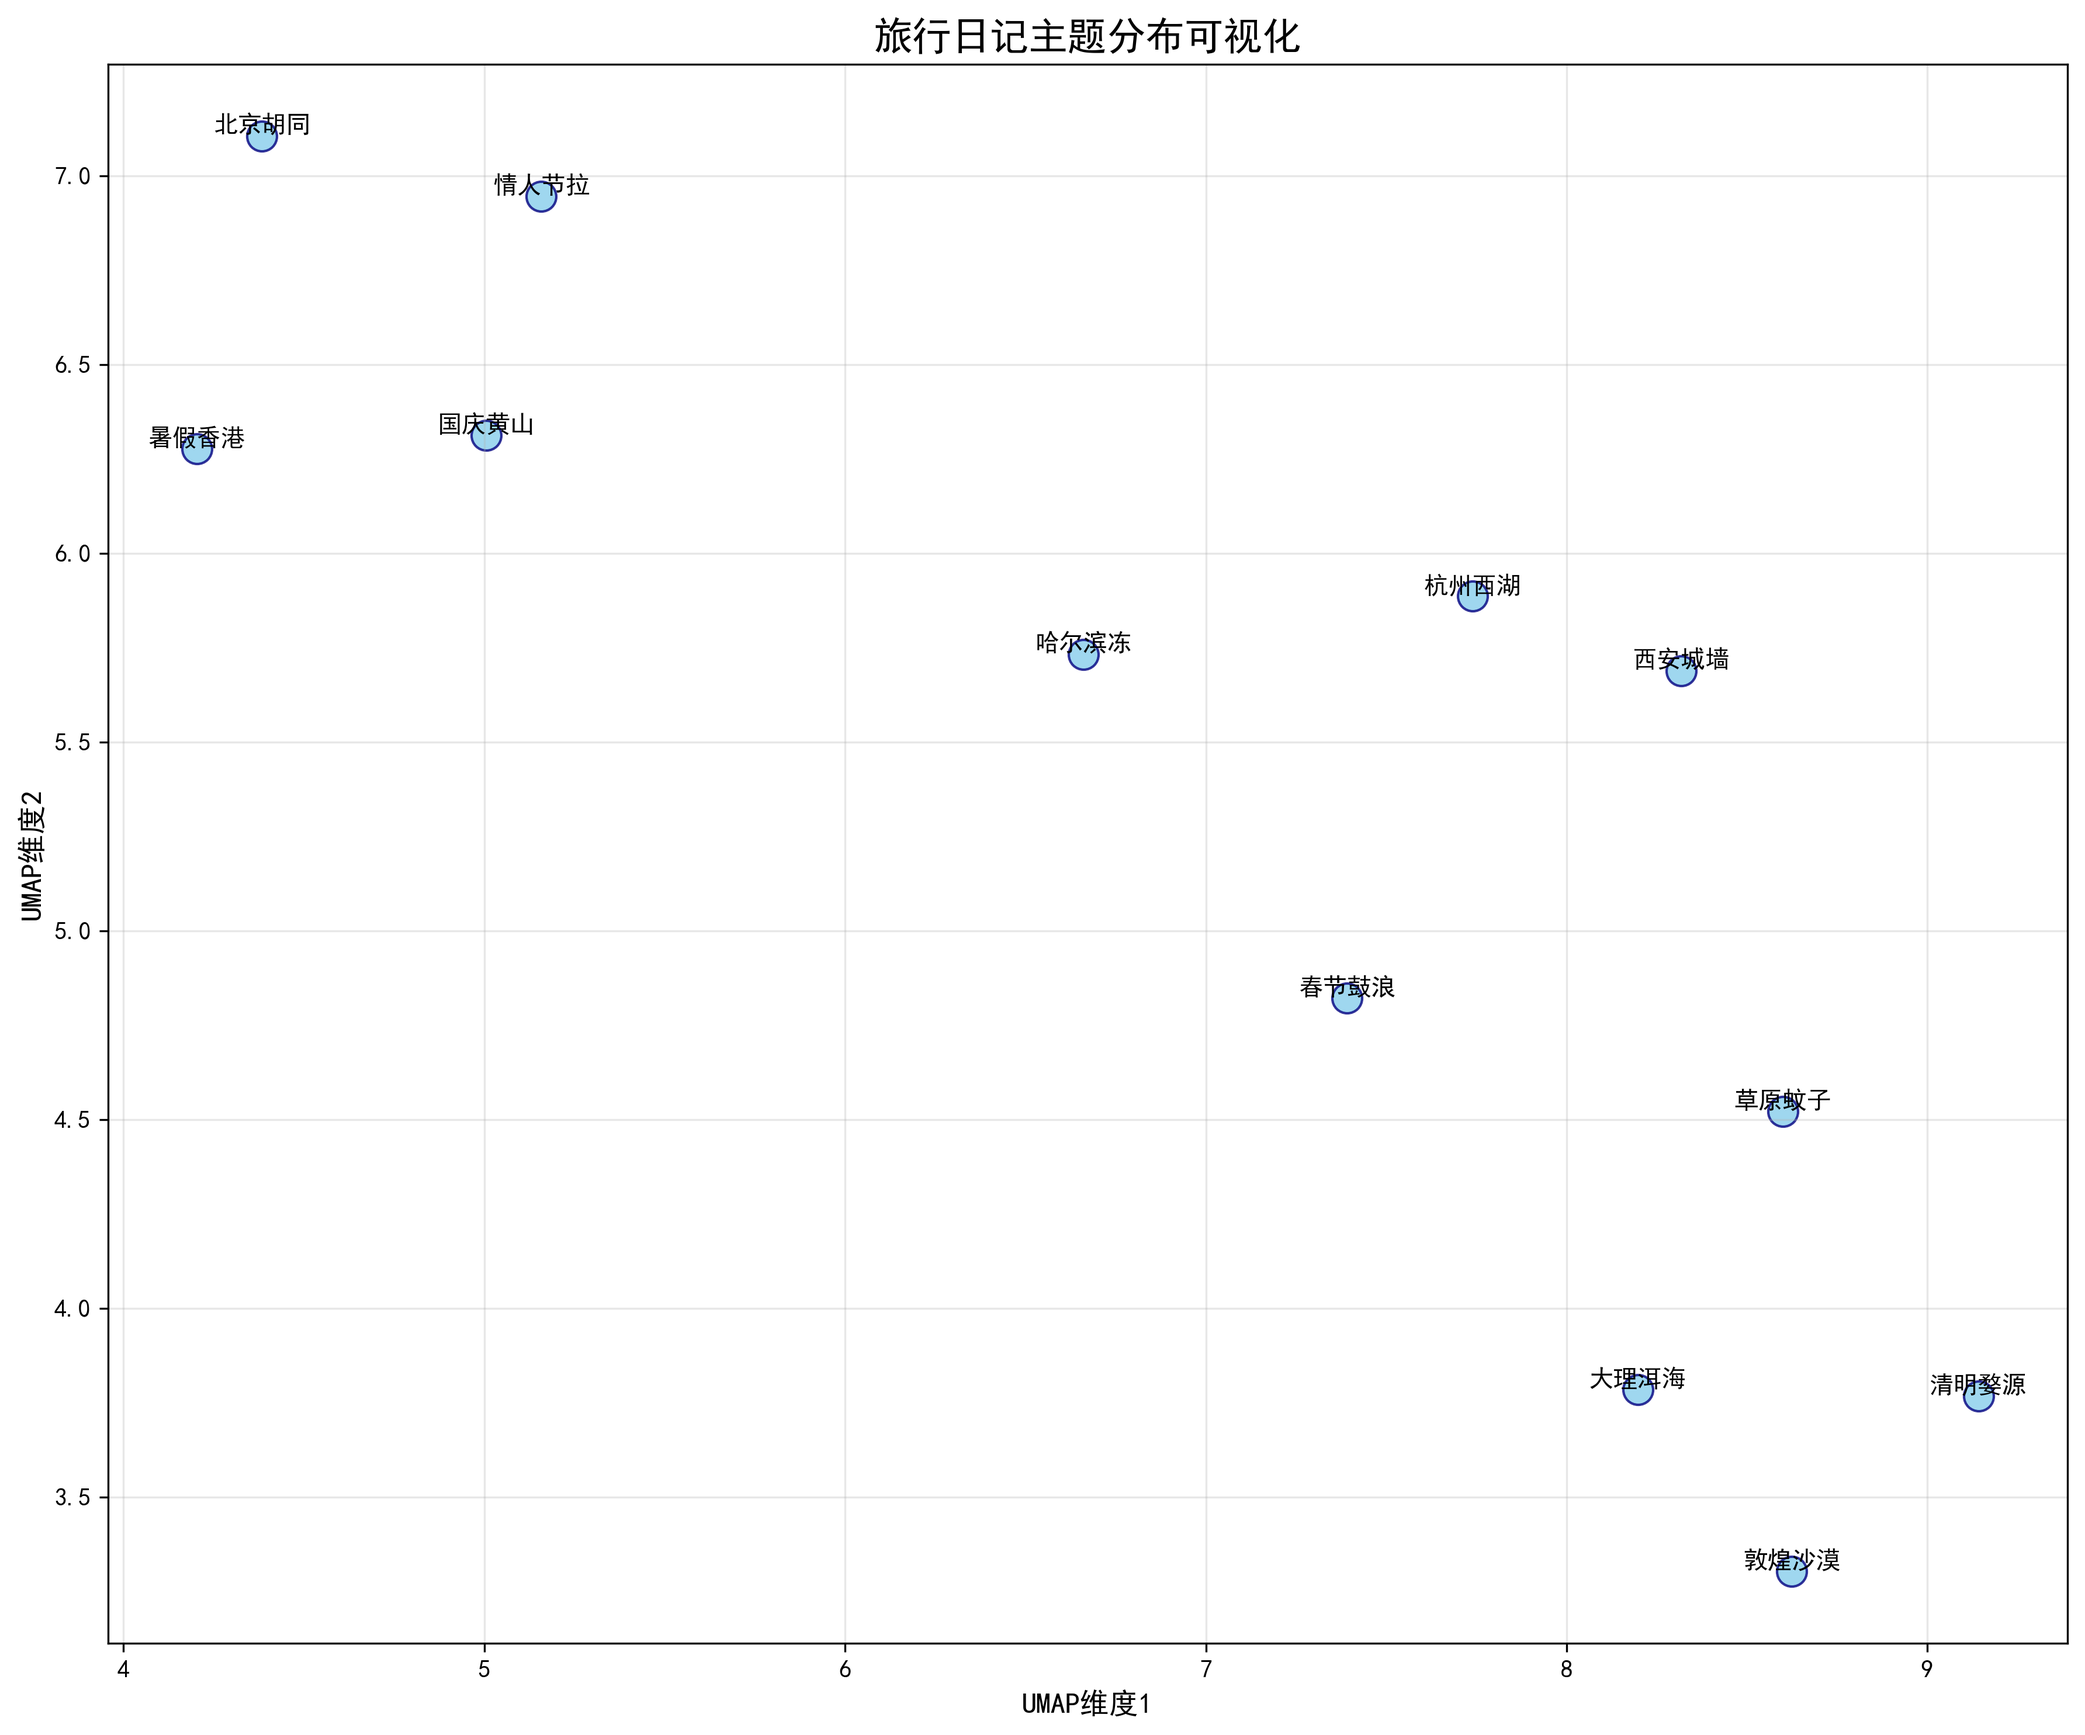
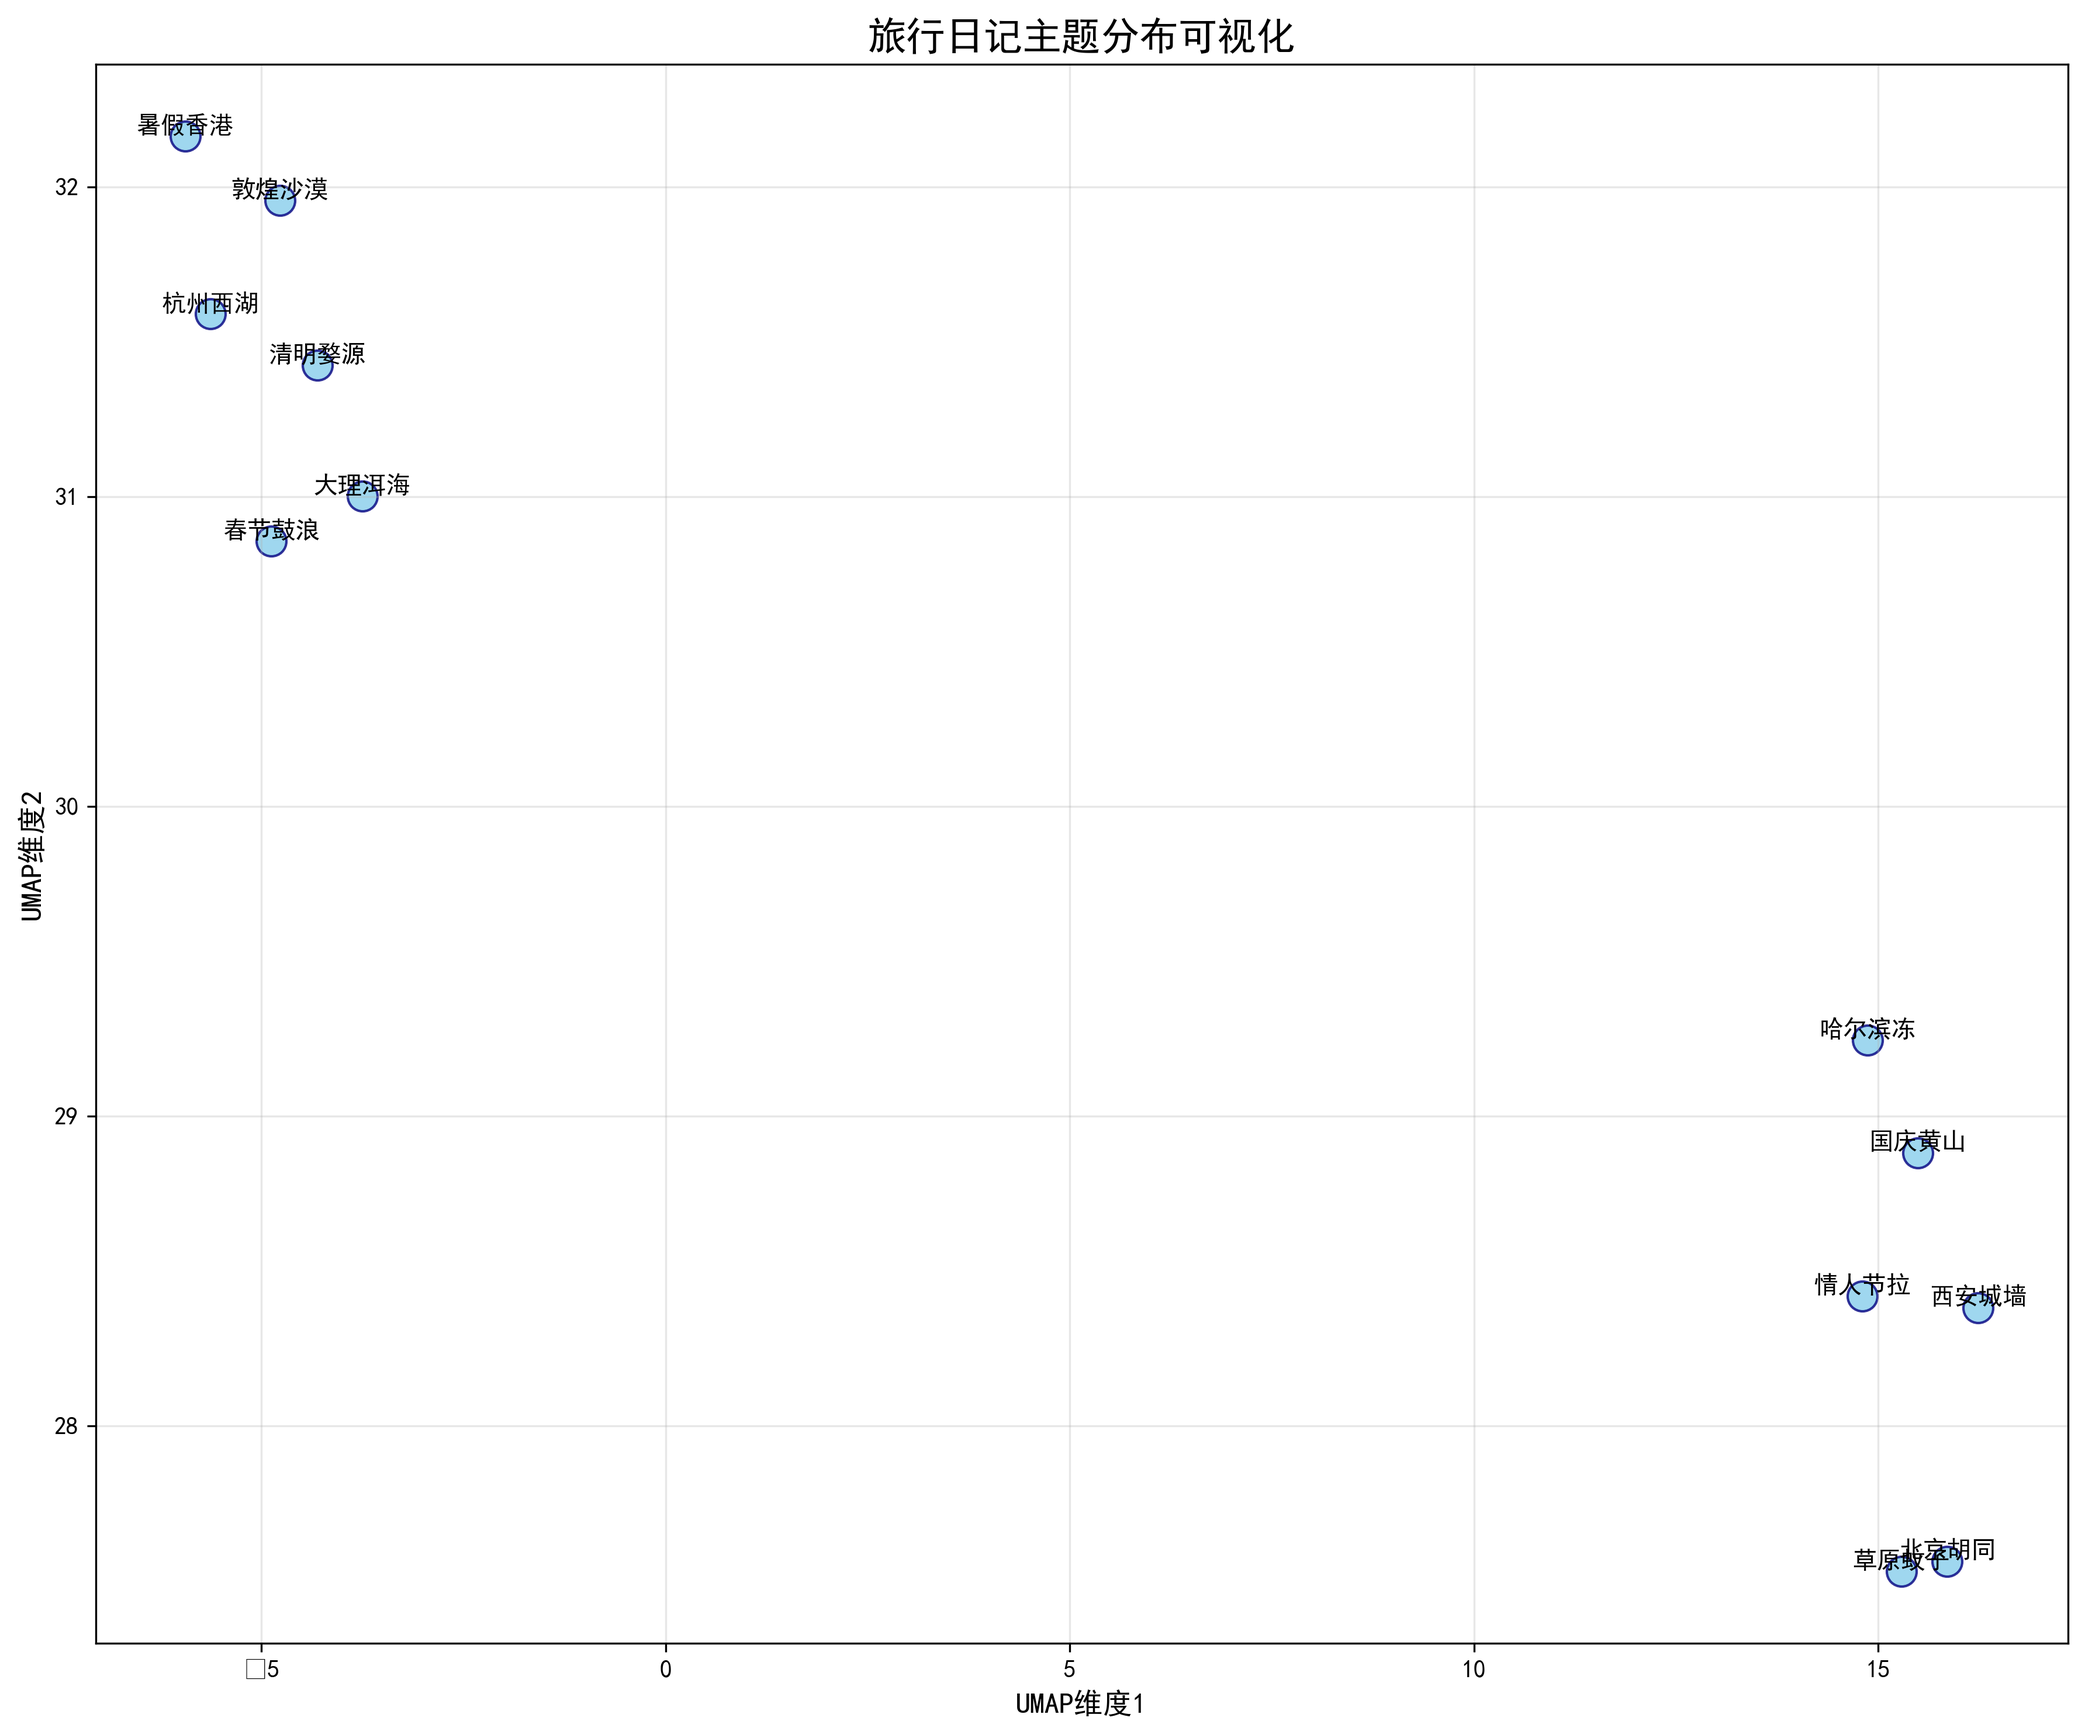
作业3修改停用词表

diff --git a/text_homework/work3/travel_topic_modeling.py b/text_homework/work3/travel_topic_modeling.py
@@ -53,8 +53,8 @@ def preprocess_data(file_path, dict_path, stopwords_path):
             stopwords = set([line.strip() for line in f if line.strip()])
 
     # 添加旅行专用停用词
-    travel_stopwords = {'日记', '实录', '血泪史', '作死', '小姑奶奶', '女娃子', '拍照', '觉得', '看到', '时候', '什么',
-                        '一个', '突然', '结果', '看到', '觉得', '时候', '什么', '一个', '突然', '结果', '活像', '仿佛'}
+    travel_stopwords = {'日记', '实录', '血泪史', '作死', '小姑奶奶', '女娃子', '拍照', '看到', '时候',
+                        '什么', '一个', '觉得', '时候', '什么', '一个', '突然', '结果', '活像', '仿佛'}
     all_stopwords = stopwords.union(travel_stopwords)
 
     # 读取数据
@@ -323,8 +323,8 @@ def main():
                 stopwords = set([line.strip() for line in f if line.strip()])
 
         # 添加旅行专用停用词
-        travel_stopwords = {'日记', '实录', '血泪史', '作死', '小姑奶奶', '女娃子', '拍照', '觉得', '看到', '时候',
-                            '什么', '一个', '突然', '结果', '看到', '觉得', '时候', '什么', '一个', '突然', '结果'}
+        travel_stopwords = {'日记', '实录', '血泪史', '作死', '小姑奶奶', '女娃子', '拍照',  '看到', '时候',
+                            '什么', '一个', '觉得', '时候', '什么', '一个', '突然', '结果', '活像','仿佛'}
         all_stopwords = stopwords.union(travel_stopwords)
 
         # 构建词典和语料库
